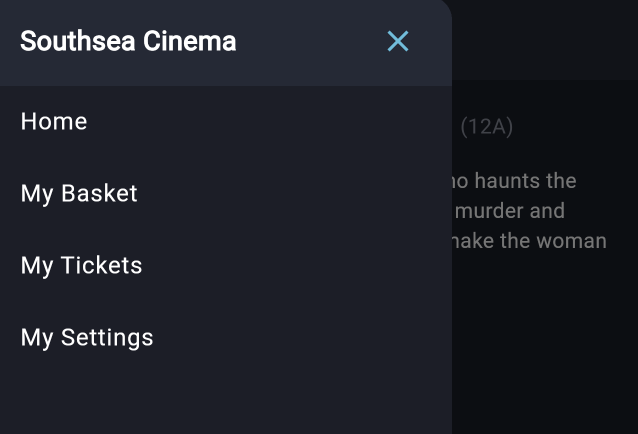
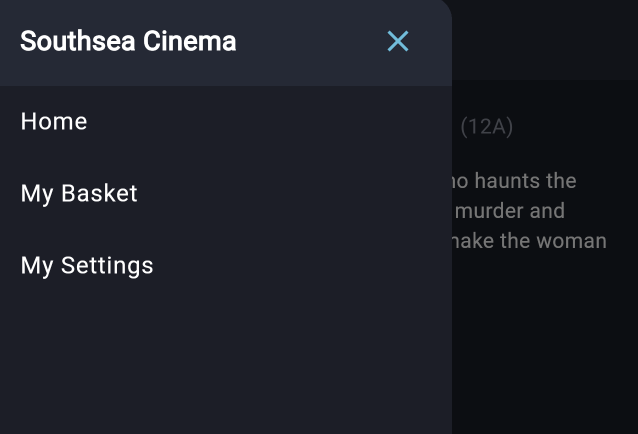
docs(demo-3): fix advanced wording, Demo 4 text and drawer image

Changed region(s): [[0.0298, 0.7488, 0.2382, 0.8088], [0.0893, 0.5691, 0.2382, 0.659]]

diff --git a/southsea_cinema_coursework_brief.md b/southsea_cinema_coursework_brief.md
@@ -135,9 +135,9 @@ You develop your coursework by completing the exercises at the end of each weekl
 
 There are five demos across the term, but only your best four demo marks count towards Item 1. Each counted demo is worth 25% of Item 1 (12.5% of the overall module mark). At each demo a member of staff assesses functionality (9% of Item 1) by watching you run your app, inspects code quality (8%), and asks two questions to test your understanding of your own code (8%). From Demo 4 onwards, the code quality component places significant weight on project structure and automated test coverage. Specifically, your `test/` directory must strictly mirror the organisation of folders in `lib/` (such as `test/models/`, `test/screens/`, `test/widgets/`, `test/repositories/`, `test/database/`), and you must generate test coverage with `flutter test --coverage` and demonstrate it live using the Flutter Coverage extension in VS Code. Leaving test files unorganised in the root of `test/` or having inadequate test coverage will result in a substantial mark penalty.
 
-For Demos 1 to 3, if any required functionality item scores zero, the final demo mark is capped at 23 out of 25. A lower mark remains unchanged; the cap does not add a separate deduction for each missing feature. Demo 3 asks one understanding question from Worksheet 5 and one from Worksheet 6, excluding advanced challenges.
+For Demos 1 to 3, if any required functionality item scores zero, the final demo mark is capped at 23 out of 25. A lower mark remains unchanged; the cap does not add a separate deduction for each missing feature. Demo 3 asks one understanding question from Worksheet 5 and one from Worksheet 6, excluding advanced, optional extensions.
 
-Demo 3 covers Worksheets 5 and 6: themed navigation, the ticket basket, profile forms, a JSON film catalogue and saved profile preferences. SQLite booking history and database-backed checkout begin in Worksheet 7 for Demo 4. Demonstrate that completed bookings survive restarting the Android emulator app and that a failed database insert leaves the basket intact. Provider and notifiers are not required.
+Demo 3 covers Worksheets 5 and 6: themed navigation, the ticket basket, profile forms, a JSON film catalogue and saved profile preferences. SQLite booking history and database-backed checkout begin in Worksheet 7 for Demo 4. Provider and notifiers are not required.
 
 Assessment takes place across five two-week demo windows (Weeks 1 and 2, Weeks 3 and 4, Weeks 5 and 6, Weeks 7 and 8, and Weeks 9 and 10). Three rules apply:
 

diff --git a/README.md b/README.md
@@ -62,7 +62,7 @@ Item 1 is assessed as a portfolio of five live in-person demos of your coursewor
 
 There are five demos across the term, but only your best four demo marks count towards Item 1. Each counted demo is worth 25% of Item 1 (12.5% of the overall module mark). Each demo is assessed on functionality (9% of Item 1), code quality (8%), and your understanding through two questions about your own code (8%).
 
-For Demos 1 to 3, a zero on any required functionality item caps the final demo mark at 23 out of 25. Lower marks remain unchanged. Demo 3 asks one understanding question from Worksheet 5 and one from Worksheet 6, excluding advanced challenges.
+For Demos 1 to 3, a zero on any required functionality item caps the final demo mark at 23 out of 25. Lower marks remain unchanged. Demo 3 asks one understanding question from Worksheet 5 and one from Worksheet 6, excluding advanced, optional extensions.
 
 Demo 3 covers navigation, a ticket basket, profile forms, a JSON film catalogue and saved profile preferences. SQLite booking history and database-backed checkout begin in Worksheet 7 for Demo 4, alongside organised tests and demonstrated editor coverage. Provider and notifiers are not required.
 

diff --git a/worksheet-5.md b/worksheet-5.md
@@ -1925,7 +1925,7 @@ In [Worksheet 3](./worksheet-3.md#exercises) and [Worksheet 4](./worksheet-4.md#
 
     The screenshot below shows us what our opened drawer looks like:
 
-    ![Southsea Cinema navigation drawer with Home, My Basket, My Tickets and My Settings](images/5/navbar.png)
+    ![Southsea Cinema navigation drawer with Home, My Basket and My Settings](images/5/navbar.png)
 
 4. The user should be able to add tickets to their basket. Develop and test a basket repository for managing the basket contents, as we build and test a repository for the Sandwich Shop order in [Holding an order in a basket](#holding-an-order-in-a-basket). It should support adding, removing and clearing tickets, and provide the basket contents and total.
 

diff --git a/assessment_guide.md b/assessment_guide.md
@@ -59,7 +59,7 @@ For Demos 1 to 3, if any required functionality item scores zero, your final
 demo mark is capped at 23 out of 25. A lower mark remains unchanged; this is
 not an additional deduction for each missing feature. At Demo 3, one
 understanding question comes from Worksheet 5 and one from Worksheet 6,
-excluding advanced challenges.
+excluding advanced, optional extensions.
 
 Demo 3 covers Worksheets 5 and 6: themed navigation, the ticket basket,
 profile forms, a JSON film catalogue and saved profile preferences.
